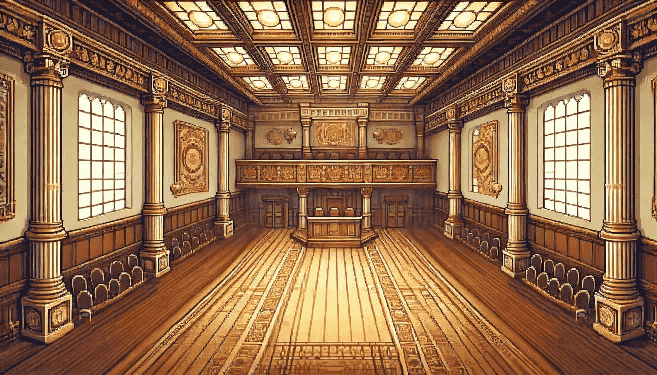
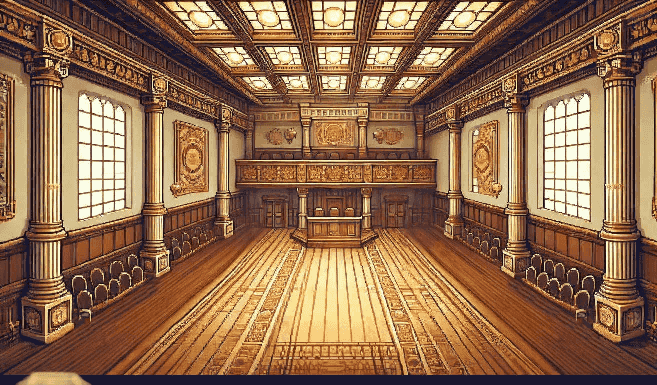
add bookshelf to library

diff --git a/src/data/dialog.ts b/src/data/dialog.ts
@@ -669,6 +669,12 @@ export const PropDialogs: { [key in PropType]?: Dialog<Prop>[] } = {
       messages: ['A comfortable bed.', 'I should rest here if I need to.'],
     },
   ],
+  [PropType.LibraryShelf]: [
+    {
+      messages: ['A library shelf, maybe I can find something interesting here.'],
+      onCompleted: (player) => openDialog(player.scene, 'Books'),
+    },
+  ],
 };
 
 export function getDialog<T>(dialogs: Dialog<T>[], player: Player, target: T): Dialog<T> | undefined {

diff --git a/src/data/warp.ts b/src/data/warp.ts
@@ -235,7 +235,7 @@ export const WarpData: Record<WarpType, Data> = {
 
   [WarpType.TownHall]: {
     x: 3560,
-    y: -290,
+    y: -250,
     key: Key.Down,
     warpTo: WarpType.TownHallEntrance,
     location: Location.Library,

diff --git a/src/data/prop.ts b/src/data/prop.ts
@@ -97,4 +97,9 @@ export const PropData: Record<PropType, Data> = {
     y: -1530,
     scale: { x: 7, y: 2 },
   },
+  [PropType.LibraryShelf]: {
+    x: 2100,
+    y: -290,
+    name: 'Library Shelf',
+  },
 };

diff --git a/src/data/types.ts b/src/data/types.ts
@@ -157,6 +157,7 @@ export enum PropType {
   MansionPicture,
   MansionHole,
   Bed,
+  LibraryShelf,
 }
 
 export enum HelperTextType {
